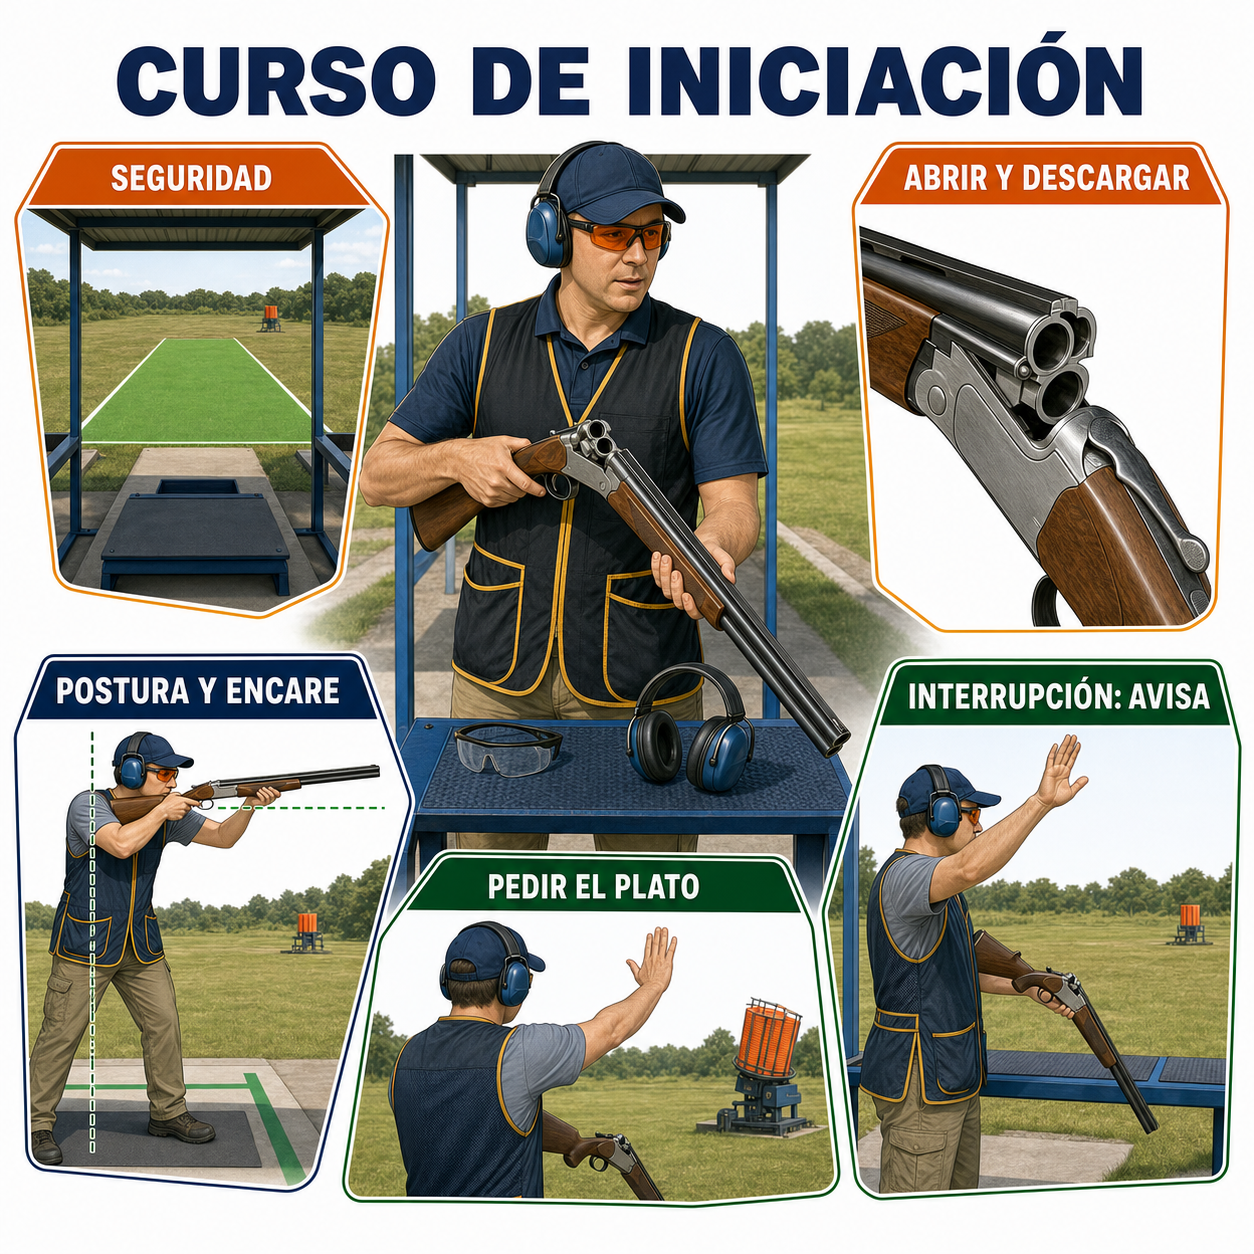
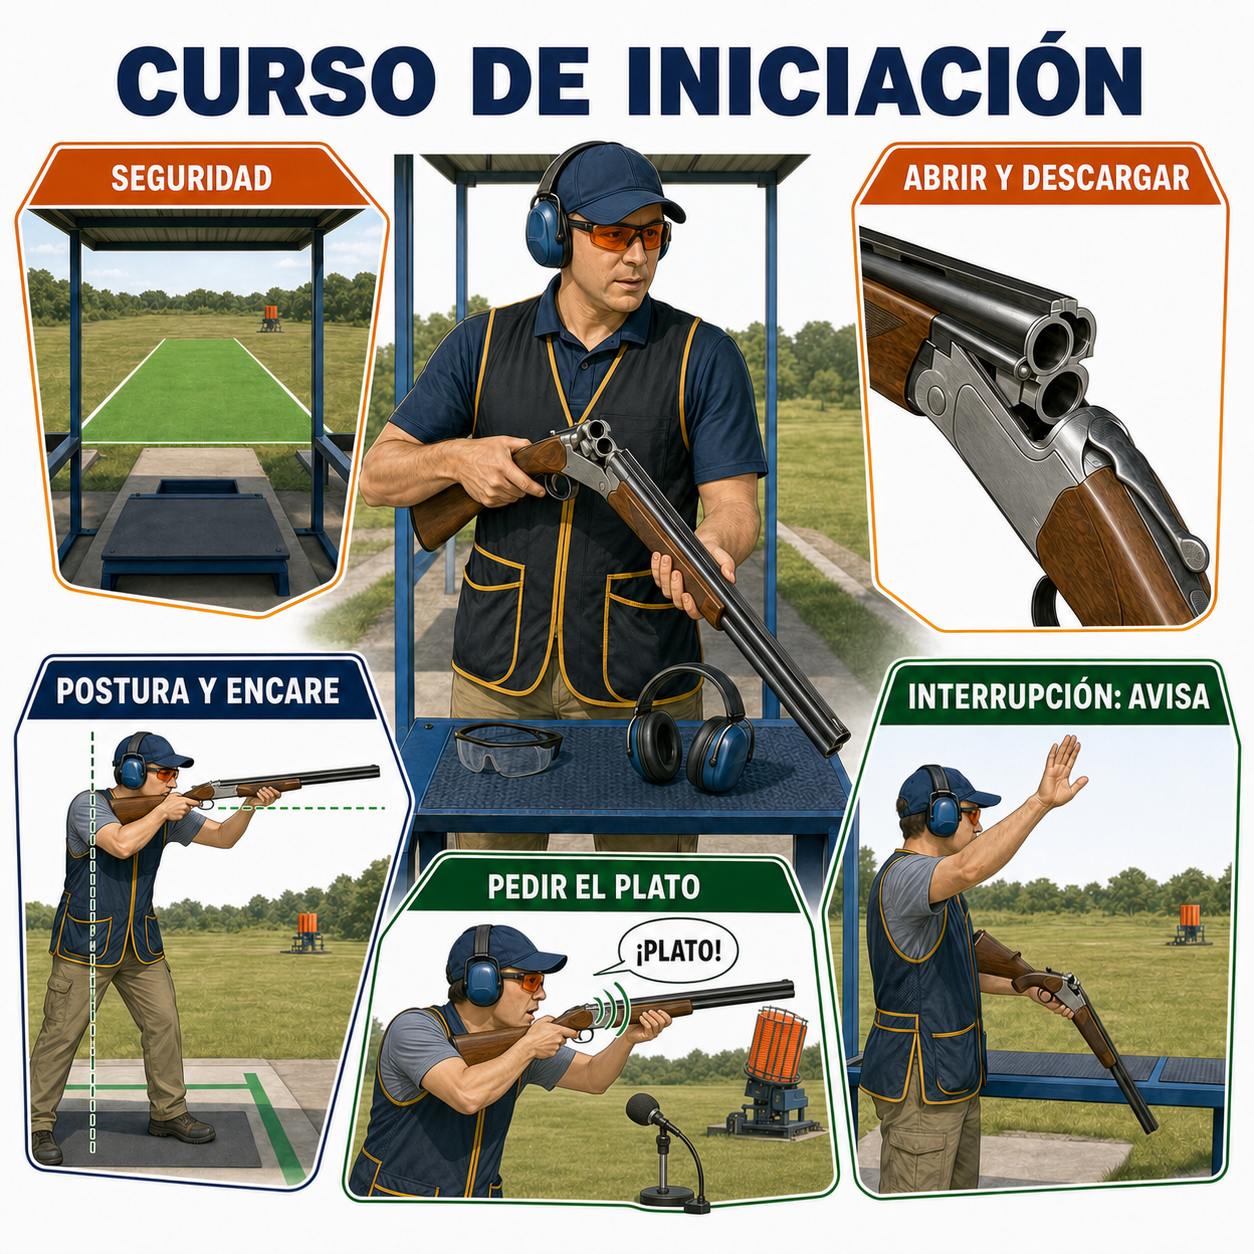
docs: corrige la petición verbal del plato

diff --git a/index.html b/index.html
@@ -519,7 +519,7 @@
   <p class="section-bridge">Federarse permite participar en la actividad deportiva y contar con sus coberturas, pero no autoriza por sí solo a adquirir o guardar un arma. Una vez separadas ambas cuestiones, podemos entender el curso de iniciación como formación y no como un simple trámite.</p>
     <p class="section-lead">Un buen curso empieza por la seguridad y el manejo. Romper platos viene después.</p>
     <figure class="micro-figure">
-      <img src="docs/manual-libro/assets/images/infografias/subapartados/02-06-curso-de-iniciacion.png" alt="Curso de iniciación dividido en seguridad, manejo, postura, vuelo del plato y práctica supervisada" width="1254" height="1254" loading="lazy">
+      <img src="docs/manual-libro/assets/images/infografias/subapartados/02-06-curso-de-iniciacion.png" alt="Curso de iniciación: seguridad, arma abierta y descargada, postura, petición verbal del plato ante un micrófono sono-pull e interrupción con la mano levantada" width="1254" height="1254" loading="lazy">
       <figcaption>La progresión debe ir de la explicación y el manejo controlado a pocos disparos supervisados.</figcaption>
     </figure>
     <p>Hay que distinguir entre la capacitación ligada a la primera licencia E y el curso deportivo de un club o federación. Pueden complementarse, pero <strong>un diploma interno no sustituye las pruebas oficiales</strong>.</p>
